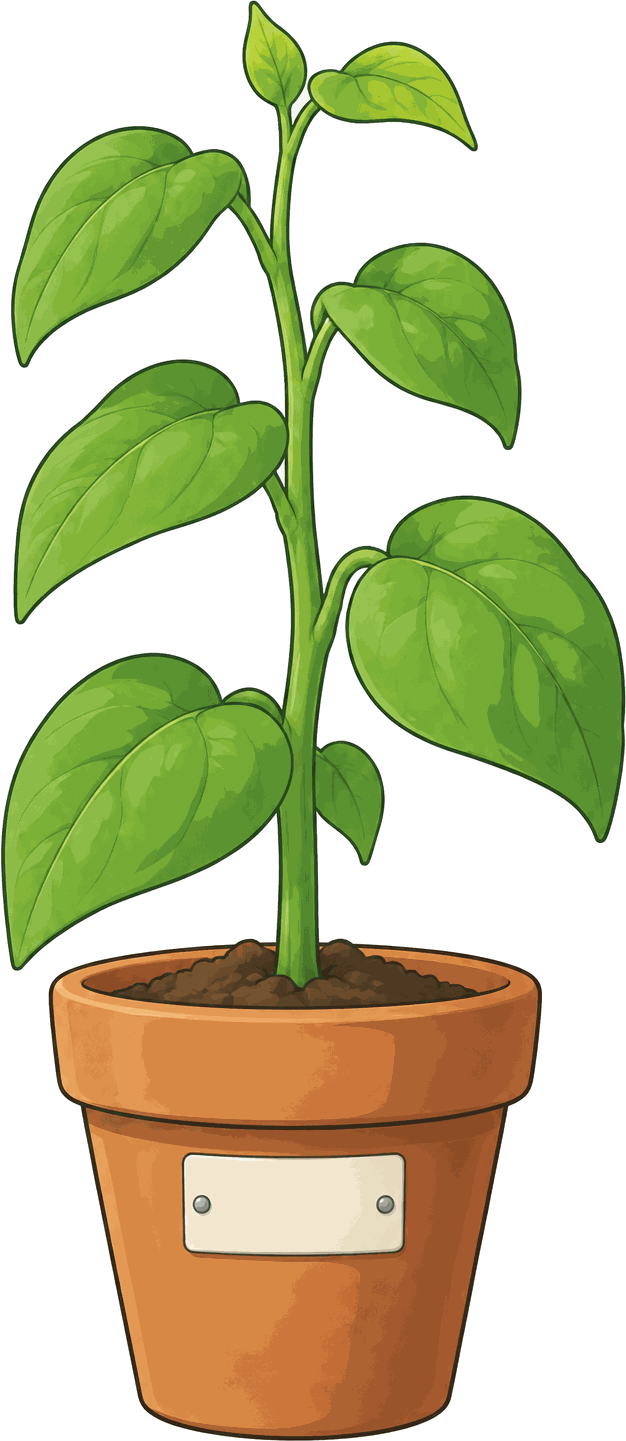
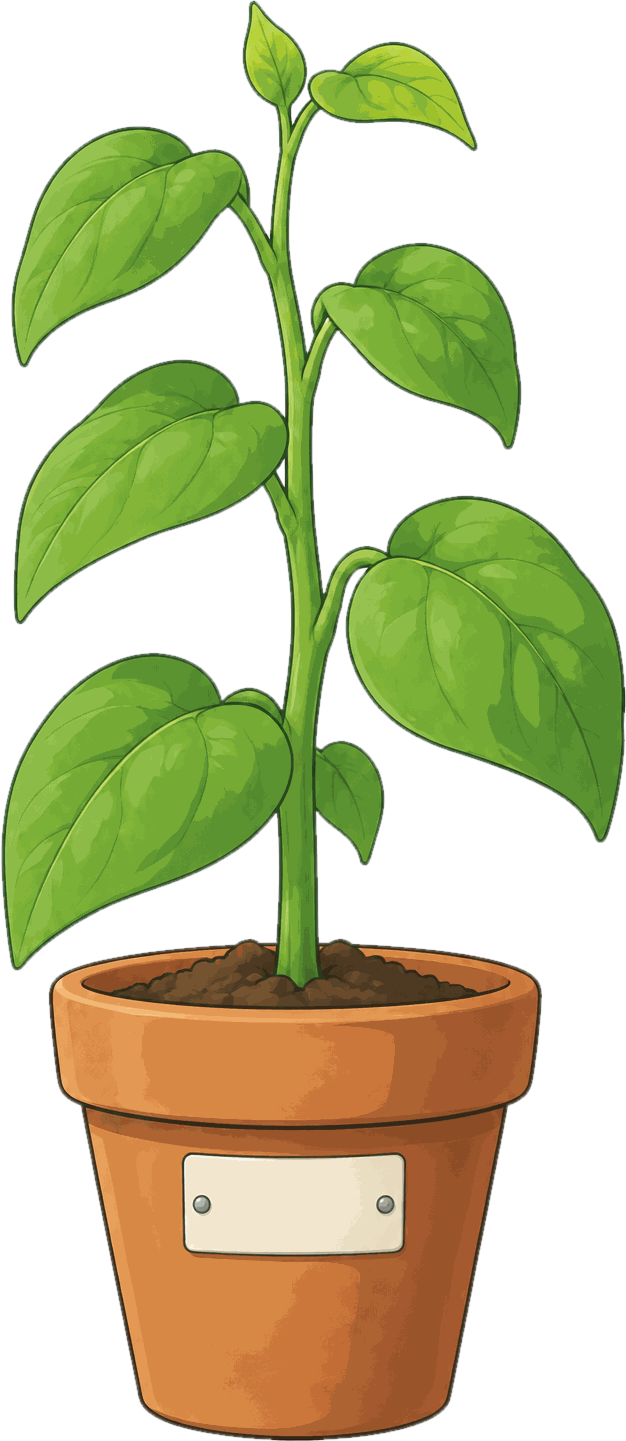
Build 2026-10-24b: the owner's third recording built in (MOTH-69 to MOTH-74)
The inventory's second column fell off the right edge of a 2.2:1 screen: the side layout's stage box stayed 100 units wide while its grid is 122.8. One CSS line in the engine fixes it, and the audit now checks that the scene, the caption and the strip end inside the window at every size (checklist 36b). Also: the white left inside the bag's handle, the tallest plant and the key's hole cleared by region (playbook 2); the pushed rubbish stays on the bin's floor; the half notes are drawn torn scraps with no words, in the bin, the hat and the strip; the whiteboard reads from the wall with no zoom; the letter's type is larger; the bin's hovering lid is gone. Playbook log 67; the level file's learning loop and sample table.

Claude-Session: https://claude.ai/code/session_01JbxsygNAcX6rczmSyPxfDn

diff --git a/next/landscape/stages/evalroom.js b/next/landscape/stages/evalroom.js
@@ -61,7 +61,6 @@ const LAYERS = {
   c3:[
     {src:'../art/eval/c5h/layer-door.png', group:'door', l:CUT.door.l, t:CUT.door.t, w:CUT.door.w, h:CUT.door.h, gone:() => S.locked}, /* the leaf, lifted from the wall; at the ending the stage swings it open on its hinge (MOTH-66) */
     {src:'../art/eval/c5h/layer-coat.png', group:'coat', l:GEO2.coat.l, t:GEO2.coat.t, w:GEO2.coat.w, h:GEO2.coat.h},
-    {src:'../art/eval/c5h/layer-lid.png', group:'lid', l:GEO2.lid.l, t:GEO2.lid.t, w:GEO2.lid.w, h:GEO2.lid.h, shadow:.4},
     {src:'../art/eval/c5h/layer-lost.png', group:'lost', l:CUT.lost.l, t:CUT.lost.t, w:CUT.lost.w, h:CUT.lost.h}, /* the shoe and hat, behind the box's front */
     {src:'../art/eval/c5h/layer-boxfront.png', l:CUT.boxfront.l, t:CUT.boxfront.t, w:CUT.boxfront.w, h:CUT.boxfront.h},
     {src:'../art/eval/c5h/item-skey.png', group:'fkey', l:61.3, t:78.6, w:4.4, h:4.45, shadow:.5, showWhen:() => S.keyDown && !taken('skey')}], /* stand-in: the small key where it landed */
@@ -85,17 +84,20 @@ const LAYERS = {
     {src:'../art/eval/c5h/layer-backpack.png', group:'backpack', l:GEO.backpack.l, t:GEO.backpack.t, w:GEO.backpack.w, h:GEO.backpack.h, shadow:.8}]
 };
 /* ---------- stand-in icons (the first playable: pictures come at Gate D) ---------- */
+const TORN_L = '<svg viewBox="0 0 60 44" style="width:100%;display:block;filter:drop-shadow(1px 2px 2px rgba(0,0,0,.35))"><path d="M3 4h44l-4 6 5 7-4 6 5 7-3 6 4 5-3 3H3z" fill="#fbf4e2" stroke="#8a7a5a" stroke-width="1.2"/><path d="M8 12h28M8 19h30M8 26h26M8 33h20" stroke="#8a93b8" stroke-width="1" opacity=".6"/></svg>';
+const TORN_R = '<svg viewBox="0 0 60 44" style="width:100%;display:block;filter:drop-shadow(1px 2px 2px rgba(0,0,0,.35))"><path d="M57 4H13l4 6-5 7 4 6-5 7 3 6-4 5 3 3h44z" fill="#fbf4e2" stroke="#8a7a5a" stroke-width="1.2"/><path d="M22 12h28M20 19h30M24 26h26M28 33h20" stroke="#8a93b8" stroke-width="1" opacity=".6"/></svg>';
+const torn = (id, side, [l, t, w], rot = -8, label) => `<button id="${id}" aria-label="${label}" style="position:absolute;left:${l}%;top:${t}%;width:${w}%;transform:rotate(${rot}deg);background:transparent;border:0;padding:0;cursor:pointer">${side === 'L' ? TORN_L : TORN_R}</button>`;
 const gicon = (t, bg) => `<span style="display:grid;place-items:center;width:80%;height:80%;margin:10%;background:${bg || '#8a8a94'};border:2px solid #2a2a33;border-radius:12%;color:#fff;font-weight:700;font-size:calc(var(--u)*1.7);text-align:center;line-height:1.05">${t}</span>`;
 const NOTES = {
-  ev_env:{hand:true, html:'<span class="head">For Mary</span><span class="big">Last day! I’ve gone to the hall.</span><span>Will you lock up 5H for me, Mary? The classroom key is in my desk drawer. Its code is the beans’ heights, read in the order I asked you to water them.</span><span class="sign">— Mr H.</span>'},
+  ev_env:{hand:true, html:'<span class="head" style="font-size:1.25em">For Mary</span><span class="big">Last day! I’ve gone to the hall.</span><span style="font-size:1.18em;line-height:1.35">Will you lock up 5H for me, Mary? The classroom key is in my desk drawer. Its code is the beans’ heights, read in the order I asked you to water them.</span><span class="sign" style="font-size:1.15em">— Mr H.</span>'},
   wnote:{hand:true, html:`<div style="position:relative;padding:calc(var(--u)*1.5) calc(var(--u)*2)"><svg viewBox="0 0 320 120" preserveAspectRatio="none" style="position:absolute;inset:0;width:100%;height:100%" aria-hidden="true"><path d="M0 0H154l-6 14 8 12-7 13 9 11-8 14 7 12-6 14 8 12-5 18H0z" fill="#f6ecd3"/><path d="M160 0H320v120H152l5-18-8-12 6-14-7-12 8-14-9-11 7-13-8-12z" fill="#fbf4e2"/><path d="M154 0l-6 14 8 12-7 13 9 11-8 14 7 12-6 14 8 12-5 18" fill="none" stroke="#c9b98f" stroke-width="1.2" stroke-dasharray="3 2"/><rect x="128" y="34" width="58" height="22" rx="2" transform="rotate(-8 157 45)" fill="rgba(255,236,160,.55)" stroke="rgba(190,170,90,.6)"/><rect x="132" y="78" width="54" height="20" rx="2" transform="rotate(6 159 88)" fill="rgba(255,236,160,.55)" stroke="rgba(190,170,90,.6)"/></svg><span class="head" style="position:relative;display:block">A torn note, taped together</span><span class="big" style="position:relative;display:block">Beans: water one pot per lesson,</span><span style="position:relative;display:block">in today’s lesson order.</span><span class="sign" style="position:relative;display:block">— H.</span></div>`}
 };
 const ITEMS = {
   ev_env:{name:'note from Mr Hollis', note:'ev_env', icon:'<img src="../art/classroom/item-envelope.png" alt="">', spent:() => S.deskOpen},
   skey:{name:'small key', icon:'<img src="../art/eval/c5h/item-skey.png" alt="">'},
   ruler:{name:'ruler', icon:gicon('RULER', '#d9a622')},
-  half1:{name:'left half of a note', icon:gicon('½ note', '#c8bfa8')},
-  half2:{name:'right half of a note', icon:gicon('note ½', '#c8bfa8')},
+  half1:{name:'left half of a note', icon:'<span style="display:block;width:78%;margin:11%">' + TORN_L + '</span>'},
+  half2:{name:'right half of a note', icon:'<span style="display:block;width:78%;margin:11%">' + TORN_R + '</span>'},
   wnote:{name:'watering note', note:'wnote', icon:gicon('NOTE', '#c8bfa8'), spent:() => S.deskOpen},
   dkey:{name:'classroom key', icon:gicon('5H KEY', '#a8844a')}
 };
@@ -191,11 +193,11 @@ const paper = (id, text, [l, t, w], rot = -8) => `<button id="${id}" style="posi
    on top of each other; a tap shoves one aside (it slides to the rim and stays there), and the half note is under the last two.
    Moving the rubbish by dragging is backlog 27; a tap-to-shove stands in. */
 const RUBBISH = [ /* id, label, resting spot (l, t, w, rotation) on the bin's floor, where it goes when shoved (up the inside wall), and the picture (Gate E samples, 24 Oct 2026) */
-  {id:'r1', label:'a crumpled page', at:[33, 30, 23, -12], to:[7, 12, 20, 28], src:'layer-rub-page.png'},
-  {id:'r2', label:'a juice carton', at:[52, 24, 14, 18], to:[78, 10, 13, 40], src:'layer-rub-carton.png'},
-  {id:'r3', label:'a crust', at:[28, 50, 19, 6], to:[5, 60, 17, -24], src:'layer-rub-crust.png'},
-  {id:'r4', label:'a ball of paper', at:[48, 44, 17, 0], to:[78, 56, 16, -30], src:'layer-rub-ball.png'},
-  {id:'r5', label:'an apple core', at:[40, 36, 16, -20], to:[8, 36, 14, 26], src:'layer-rub-core.png'}
+  {id:'r1', label:'a crumpled page', at:[33, 30, 23, -12], to:[27, 26, 20, 28], src:'layer-rub-page.png'},
+  {id:'r2', label:'a juice carton', at:[52, 24, 14, 18], to:[62, 22, 13, 40], src:'layer-rub-carton.png'},
+  {id:'r3', label:'a crust', at:[28, 50, 19, 6], to:[26, 56, 17, -24], src:'layer-rub-crust.png'},
+  {id:'r4', label:'a ball of paper', at:[48, 44, 17, 0], to:[61, 52, 16, -30], src:'layer-rub-ball.png'},
+  {id:'r5', label:'an apple core', at:[40, 36, 16, -20], to:[30, 40, 14, 26], src:'layer-rub-core.png'}
 ];
 const UNDER = ['r4', 'r5']; /* the half note is under these two */
 function openBin(){
@@ -204,13 +206,13 @@ function openBin(){
   const pieces = RUBBISH.map(r => { const m = moved.includes(r.id), [l, t, w, rot] = m ? r.to : r.at;
     return `<button class="rub" data-r="${r.id}" aria-label="${r.label}${m ? ', pushed aside' : ''}" style="position:absolute;left:${l}%;top:${t}%;width:${w}%;aspect-ratio:1;transform:rotate(${rot}deg);background:transparent;border:0;padding:0;cursor:pointer;transition:left .5s cubic-bezier(.3,.9,.4,1),top .5s cubic-bezier(.3,.9,.4,1),transform .5s;filter:drop-shadow(2px 4px 3px rgba(0,0,0,.45))"><img src="../art/eval/c5h/${r.src}?v=${BUILD}" alt="" style="width:100%;display:block;pointer-events:none"></button>`; }).join('');
   openCloseup(`<div class="card shelf"><div class="shelfpic" style="background-image:url(../art/eval/c5h/closeup-bin.jpg?v=${BUILD})"><p class="otitle">Into the bin</p>
-    ${noteShows ? paper('takeHalf1', '½ note', [42, 44, 14], -14) : (!gone ? `<div id="binNote" style="position:absolute;left:42%;top:44%;width:14%;aspect-ratio:1.6;transform:rotate(-14deg);background:#fbf4e2;border:1px solid #6a5a44;opacity:${UNDER.some(id => moved.includes(id)) ? .9 : .35}"></div>` : '')}
+    ${noteShows ? torn('takeHalf1', 'L', [42, 44, 14], -14, 'Half a torn note') : (!gone ? `<div id="binNote" style="position:absolute;left:42%;top:44%;width:14%;aspect-ratio:1.6;transform:rotate(-14deg);background:#fbf4e2;border:1px solid #6a5a44;opacity:${UNDER.some(id => moved.includes(id)) ? .9 : .35}"></div>` : '')}
     ${pieces}</div><p class="ofb" id="binFb">${gone ? 'Paper, a crust, a carton and an apple core. Nothing else now.' : noteShows ? 'There! Half a note, torn down the middle, in Mr Hollis’s writing.' : 'Looking down into the bin. Paper, a crust, a carton… Push things aside to see what is underneath.'}</p></div>`);
   document.querySelectorAll('#closeup .rub').forEach(b => b.onclick = e => { e.stopPropagation(); const id = b.dataset.r, r = RUBBISH.find(x => x.id === id); if (!S.binMoved) S.binMoved = [];
     const m = S.binMoved.includes(id); S.binMoved = m ? S.binMoved.filter(x => x !== id) : [...S.binMoved, id]; save(); sfx('paper');
     const [l, t, w, rot] = m ? r.at : r.to; b.style.left = l + '%'; b.style.top = t + '%'; b.style.transform = `rotate(${rot}deg)`;
     const shows = !gone && UNDER.every(x => S.binMoved.includes(x)); const n = $('binNote'); if (n) n.style.opacity = UNDER.some(x => S.binMoved.includes(x)) ? .9 : .35;
-    if (shows && !$('takeHalf1')){ const n = $('binNote'); if (n) n.remove(); const pic = document.querySelector('#closeup .shelfpic'); pic.insertAdjacentHTML('beforeend', paper('takeHalf1', '½ note', [42, 44, 14], -14)); wireHalf1(); $('binFb').textContent = 'There! Half a note, torn down the middle, in Mr Hollis’s writing.'; }
+    if (shows && !$('takeHalf1')){ const n = $('binNote'); if (n) n.remove(); const pic = document.querySelector('#closeup .shelfpic'); pic.insertAdjacentHTML('beforeend', torn('takeHalf1', 'L', [42, 44, 14], -14, 'Half a torn note')); wireHalf1(); $('binFb').textContent = 'There! Half a note, torn down the middle, in Mr Hollis’s writing.'; }
     else $('binFb').textContent = m ? 'Back it goes.' : UNDER.some(x => S.binMoved.includes(x)) ? 'Pushed aside. Something pale underneath…' : 'Pushed aside.'; });
   wireHalf1();
 }
@@ -225,7 +227,7 @@ function openBox(){ /* the lost property box, close up, from the wall; the hat i
 function openHat(){
   const gone = S.got.includes('half2') || S.got.includes('wnote');
   openCloseup(`<div class="card shelf"><div class="shelfpic" style="background-image:url(../art/eval/c5h/closeup-hat.jpg?v=${BUILD})"><p class="otitle">Inside the hat</p>
-    ${S.popped && !gone ? paper('takeHalf2', 'note ½', [58, 50, 11], 28) : ''}</div><p class="ofb">${gone ? 'The inside of the cap: a sweatband and a name tape, worn blank.' : S.popped ? 'Tucked under the band: a torn corner of paper.' : 'The inside of the cap. The band is tight all the way round.'}</p></div>`);
+    ${S.popped && !gone ? torn('takeHalf2', 'R', [57, 49, 11], 28, 'A torn corner of paper') : ''}</div><p class="ofb">${gone ? 'The inside of the cap: a sweatband and a name tape, worn blank.' : S.popped ? 'Tucked under the band: a torn corner of paper.' : 'The inside of the cap. The band is tight all the way round.'}</p></div>`);
   const b = $('takeHalf2'); if (b) b.onclick = e => { e.stopPropagation(); S.got.push('half2'); save(); sfx('pickup'); closeCloseup(); render(); say('The other half of the note, tucked in the hat’s band. Torn, taped once already, and torn again. It goes in the strip below.'); };
 }
 function openBoard(again){
@@ -332,7 +334,7 @@ function act(id){
       if (!S.deskOpen){ openDeskLock(); return; }
       if (!S.deskOut){ toggleDrawer('desk', taken('dkey') ? 'The drawer slides open. Paper clips and a whistle.' : 'The drawer slides open. Something glints inside.'); return; }
       openInsideDesk(); return;
-    case 'ev_board': openBoard(); return;
+    case 'ev_board': { const first = !S.seen.day; if (first){ S.seen.day = Date.now(); save(); } say('The whiteboard, wiped clean for the holidays. Only today’s date is left: ' + DATE + '.' + (first ? copyClue('board') : '')); return; } /* no zoom: the date is big enough on the wall (owner, 24 Oct 2026) */
     case 'ev_timetable': openTimetable(); return;
     case 'ev_beans': openPots(); return;
     case 'ev_door':

diff --git a/next/landscape/index.html b/next/landscape/index.html
@@ -41,7 +41,7 @@ button{font:inherit;color:inherit;cursor:pointer}
 /* a wide screen (the owner's phone; backlog 24, 21 Oct 2026): the scene takes the full height, the ten slots stand beside it in two
    columns of five, and the spoken line floats over the foot of the picture only while it is showing (never over a close-up or card).
    fit() chooses this layout only when it gives a clearly bigger scene; a tablet keeps the strip under the scene. */
-.stage.side{position:relative;display:grid;grid-template-columns:calc(var(--u)*100) calc(var(--u)*21.6);grid-template-rows:calc(var(--u)*56.25);gap:0 calc(var(--u)*1.2);align-items:stretch}
+.stage.side{position:relative;width:calc(var(--u)*122.8);display:grid;grid-template-columns:calc(var(--u)*100) calc(var(--u)*21.6);grid-template-rows:calc(var(--u)*56.25);gap:0 calc(var(--u)*1.2);align-items:stretch}
 .stage.side .scene{grid-column:1;grid-row:1}
 .stage.side .inv{grid-column:2;grid-row:1;margin:0;padding:0;height:100%;grid-template-columns:repeat(2,minmax(0,1fr));grid-template-rows:repeat(5,minmax(0,1fr));gap:calc(var(--u)*1.2)}
 .stage.side .slot{aspect-ratio:auto;height:100%}
@@ -644,7 +644,7 @@ button{font:inherit;color:inherit;cursor:pointer}
 
 <script>
 'use strict';
-const BUILD = '2026-10-24a';
+const BUILD = '2026-10-24b';
 const $ = id => document.getElementById(id);
 
 /* ---------- sizing: the scene fills the screen in landscape, the inventory strip under it, or beside it on a wide screen (backlog 24) ---------- */
@@ -1764,15 +1764,15 @@ function boot(){
   playSplash().then(showTitle);
 }
 </script>
-<script src="stages/school.js?v=2026-10-24a"></script>
-<script src="stages/packing.js?v=2026-10-24a"></script>
-<script src="stages/school3.js?v=2026-10-24a"></script>
-<script src="stages/evalroom.js?v=2026-10-24a"></script>
-<script src="stages/eschool.js?v=2026-10-24a"></script>
-<script src="stages/zschool.js?v=2026-10-24a"></script>
-<script src="stages/flight.js?v=2026-10-24a"></script>
-<script src="stages/nana.js?v=2026-10-24a"></script>
-<script src="stages/park.js?v=2026-10-24a"></script>
+<script src="stages/school.js?v=2026-10-24b"></script>
+<script src="stages/packing.js?v=2026-10-24b"></script>
+<script src="stages/school3.js?v=2026-10-24b"></script>
+<script src="stages/evalroom.js?v=2026-10-24b"></script>
+<script src="stages/eschool.js?v=2026-10-24b"></script>
+<script src="stages/zschool.js?v=2026-10-24b"></script>
+<script src="stages/flight.js?v=2026-10-24b"></script>
+<script src="stages/nana.js?v=2026-10-24b"></script>
+<script src="stages/park.js?v=2026-10-24b"></script>
 <script>boot();</script>
 <script>if ('serviceWorker' in navigator && location.protocol === 'https:') navigator.serviceWorker.register('../../sw.js').catch(() => {});</script>
 </body>

diff --git a/tools/play-ev.js b/tools/play-ev.js
@@ -49,7 +49,7 @@ const { chromium } = require('playwright');
   await p.evaluate(() => document.querySelector('#closeup .cuhot[data-cu="ev_hat"]').click()); await p.waitForTimeout(600); console.log('hat close-up, corner there?', await p.locator('#takeHalf2').count()); await shot('08c-hat'); await p.click('#takeHalf2'); await p.waitForTimeout(500); console.log('halves:', JSON.stringify(await st()));
   await hold('left half of a note'); await p.evaluate(() => document.querySelector('.slot[aria-label="right half of a note"]').click()); await p.waitForTimeout(900); await noOverflow('watering note'); await shot('09-watering-note'); console.log('joined:', JSON.stringify(await st())); await back();
   // the clues: board, timetable
-  await turnTo('c1'); await tap('ev_board', 800); await noOverflow('board'); await shot('10-board'); await back();
+  await turnTo('c1'); await tap('ev_board', 800); console.log('board: no close-up?', await p.evaluate(() => document.getElementById('closeup').hidden), '| day seen?', await p.evaluate(() => !!S.seen.day)); await shot('10-board');
   await turnTo('c4'); await tap('ev_timetable', 800); await noOverflow('timetable'); await shot('11-timetable'); await back(); console.log('clues:', JSON.stringify(await st()));
   await nbCheck('with clues'); await p.evaluate(() => openNotebook()); await p.waitForTimeout(300); await shot('12-notebook');
   console.log('notebook rows:', JSON.stringify(await p.evaluate(() => [...document.querySelectorAll('.nbrow')].map(r => r.textContent))));

diff --git a/tools/audit.js b/tools/audit.js
@@ -36,6 +36,8 @@ const voiced = new Set(JSON.parse(fs.readFileSync(path.join(__dirname, '../next/
       if (!(await p.evaluate(() => document.getElementById('comic').hidden))) await p.click('#cskip'); await p.waitForTimeout(300);
       if (!(await p.evaluate(() => document.getElementById('stagecard').hidden))) await p.click('#cardGo'); await p.waitForTimeout(300);
       const scroll = await p.evaluate(() => document.documentElement.scrollHeight > innerHeight + 1 || document.documentElement.scrollWidth > innerWidth + 1); if (scroll) say(stage, 'G37', `page scrolls at ${name}`);
+      /* the strip, the scene and the caption all inside the window (the body hides overflow, so a scroll test misses it): the inventory's second column was off the owner's tablet, 24 Oct 2026 */
+      const off = await p.evaluate(() => ['inv', 'scene', 'msg'].map(id => { const r = document.getElementById(id).getBoundingClientRect(); return [id, Math.round(r.left), Math.round(r.right), Math.round(r.bottom)]; }).filter(([id, l, r, b]) => l < -1 || r > innerWidth + 1 || b > innerHeight + 1)); if (off.length) say(stage, 'G37', `off the screen at ${name}: ${off.map(o => o.join(' ')).join('; ')}`);
       const views = await p.evaluate(() => Object.entries(ROOMS).flatMap(([r, R]) => R.views.map((v, i) => [r, i, v])));
       for (const [room, i, v] of views){
         await p.evaluate(([r, i]) => { S.room = r; S.view = i; save(); render(); say(''); }, [room, i]); await p.waitForTimeout(name === 'tablet' ? 900 : 250);

diff --git a/next/PLAYBOOK.md b/next/PLAYBOOK.md
@@ -22,7 +22,7 @@ The working rules for every room in the landscape game, distilled from the owner
 - Consistency: generate one wall alone, then give the others a crop of it (objects cut off) as a style reference, with "copy only its style, not its objects".
 - Never mention the arrows or the interface in a prompt (the model draws them). Walls made before 17 Oct 2026 were prompted as a "shallow box with narrow side walls"; new walls are prompted flat and the engine paints the side walls from the neighbouring views (4z). Never draw boxes, panels or placeholder shapes.
 - Anything that will move, be picked up, or change state is **not drawn on the wall**. Describe its place as empty ("the purple locker has no door", "the end of the cabinet is empty") and generate the thing separately as a cut-out. This avoids the edit-and-drift cycle (editing a finished wall shifts everything slightly and every position must be re-measured).
-- Cut-outs: 1:1 or 3:4, 1K, "alone on a pure flat white background, same style as the attached crop, no surface, no shadow, no frame, no text". Flood-fill the white away from the edges (so white inside the object survives), crop to content, quantise to 256 colours. Give the model a crop of the object from the wall when one exists.
+- Cut-outs: 1:1 or 3:4, 1K, "alone on a pure flat white background, same style as the attached crop, no surface, no shadow, no frame, no text". Flood-fill the white away from the edges (so white inside the object survives), then clear any enclosed near-white region that is not part of the thing (a handle's loop, a key's hole, a gap between leaves: the owner's recording, 24 Oct 2026, MOTH-70), crop to content, quantise to 256 colours. Give the model a crop of the object from the wall when one exists.
 - Inventory icons are made the same way (on white, keyed out), never small vector drawings.
 - Text in generated art is unreliable: keep lettering to short labels (SUPPLIES, 5H, LOST PROPERTY). Anything the puzzle depends on (the timetable grid) is drawn by the game over the picture so it exactly matches its close-up.
 - Save walls at 1920×1080 JPEG quality 88; keep the 2K PNG originals out of the repo.
@@ -640,3 +640,4 @@ Items 1, 3, 4, 6 and 7 are one build, about a day, the "tester round 1" build; 2
 64. "It's ok but I think it needs new visuals… Inside the bin taken from the top perhaps with a mini puzzle to move the trash around to find the note. A close up of the inside of the hat. Also the drawers need open and shut mechanics" (owner, 22 Oct 2026, on build 2026-10-22c). Logged as MOTH-52, MOTH-53, MOTH-54. → build 2026-10-22d: the bin looked into from the top with five bits of rubbish to push aside and the half note under the last two; the hat opened from the box close-up with the corner in its band; both drawers open and shut on a tap, in the room and close up, with the ruler and the key inside only while they are out. All three are code-drawn stand-ins; the pictures go on the Gate D list. Rules in 4ad and checklist 60 and 61; the drag version of the rubbish and the engine's shut movement are backlog 26 and 27.
 65. The owner's playthrough video of build 2026-10-22d (22 Oct 2026, 4 min 6 s, from the tablet, 248 frames read at one every two seconds). Solved without the notebook: the timetable read three times (the last for ten seconds, finger on the Thursday row) and the measured pots held open for twelve seconds while the code was worked out, which is the puzzle doing its job; the bin's push-aside found in six seconds, the hat in four; the key used inside the cabinet close-up at 2:16 (MOTH-51 holds); both drawers opened and shut several times for the pleasure of it. One fault: the small key back on the floor after it had opened the cabinet, picked up a second time during the lock-up (MOTH-55). Cause: the floor key hid on "is it in the strip", and a used item leaves the strip. → build 2026-10-22e: a taken flag for the small key and the classroom key; checklist 41b. The recording carries no sound at all, so whether the taps sounded on the tablet is unknown; worth checking on the next play.
 66. The owner's second recording, with his voice (22 Oct 2026, build 2026-10-22d, 6 min 14 s; the sound track transcribed through OpenRouter for 4 cents and each remark pinned to its frame). Thirteen points, logged as MOTH-56 to MOTH-68: the timetable's icons off the grid ("probably a line missing… only four rows"); the ball and the brush on no day; the bag, the bin lid and the box's pop ("not thrilled with the bag animation… I'm not a big fan of this animation… it's kind of weird that it animates and it zooms in"); the keyhole in the close-up but not on the wall; the keyhole itself not taking the key ("if I click on the key and then click on the hole, it should work, but it doesn't"); the whole desk opening the dials ("the hitbox is too big"); an open drawer that should zoom to itself ("this is a bug… I actually have to zoom in to the whole filing cabinet"); the bin's flash when the note appears; the key that should tumble out of the pocket; the joined note that should look taped; the key hard to see in the drawer ("some kind of top-down view"); the door's fold and the drag's trail line ("not good at all"); the same line twice on a close-up and in the caption; the cupboard's doors narrower than the cupboard and a line about glue sticks over bare shelves. Praise kept too: "I do like the turning of the clock, that's really cool"; "this I like, the sort of looking inside the bin". The recording has the music but no tap sounds, which may be the recorder or the game: to check on the tablet. → build 2026-10-22f: all but the three that are pictures (the top-down drawer, the cupboard doors re-cut, the finished taped note) fixed, those three on the Gate D list; rules in 4ad and checklist 59 to 62.
+67. The owner's third recording, with his voice (24 Oct 2026, build 2026-10-24a with the Gate E samples, 3 min 59 s; transcribed for 3 cents). The samples passed by ear: "I like how this thing works here in terms of the items being moved"; the clock "works fantastically well". Ten points, logged as MOTH-69 to MOTH-74: the inventory's second column off his tablet (a 2.2:1 screen: the side layout's stage box stayed 100 units wide while its grid is 122.8, so the strip hung off the right edge; "where is it in my inventory?… this is a little bit of a game flaw"), fixed in the engine's one CSS line and checked by the audit from now on (checklist 36b); white left inside the bag's handle, the tallest plant and the key's hole (the edge flood cannot reach an enclosed gap: cleared by region); the pushed rubbish climbing the bin's walls (now the floor's corners); the stand-in halves labelled "½ note" ("why is it written?": torn scraps now, no words); the whiteboard's needless zoom and the letter's small type; the bin's hovering lid (removed; the wall's bin has none) and the keyhole's shape against the new key. The tap sounds were audible this time: the earlier silent recording was the recorder. → build 2026-10-24b.

diff --git a/levels/LEVEL-evalroom.md b/levels/LEVEL-evalroom.md
@@ -3,7 +3,7 @@
 *Outline only, written in claude.ai on 22 Oct 2026 from a discussion with the owner, recorded here the same day from `EVALROOM-HANDOVER.md` with the owner's two changes made in chat after the review (the lock-up duty premise and the falling key) and the review's findings listed under "Review against the repo". Nothing here is built yet. Do not build, generate art or change the engine until the owner signs Gate B, and then follow the gates as for any level. The stage stays `?stage=evalroom` (`next/landscape/stages/evalroom.js`); its current "one room, no puzzle" content is replaced by this design once it reaches the greybox.*
 
 Status: `brief` | `outline` | `greybox` | `assets listed` | `samples` | `batch` | `integrating` | `released`
-Current status: sample pack made and placed (build 2026-10-24a); Gate E waits on the owner's play
+Current status: sample pack placed and played by the owner (build 2026-10-24b carries his notes); Gate E waits on his word
 Build id of the latest play link: 2026-10-22f (the first playable, with everything from the owner's three plays built in: MOTH-49 to 68)
 Latest play link: `?stage=evalroom`
 
@@ -245,9 +245,9 @@ Made 24 Oct 2026 on the GitHub runner (`evals/images/runs/evalroom-samples.json`
 | Sample | What it is | Why this one | Result |
 |---|---|---|---|
 | Wall | none new | the owner kept the walls at Gate D | — |
-| Close-up | the bin from above (`closeup-bin.jpg`) with its five rubbish cut-outs (`layer-rub-*.png`) | the hardest: a new angle, a picture other pictures must sit on, and the room's one search puzzle | Claude's sheet: every hard rule passes (nothing written, nothing extra, the bin empty as asked); the carton stands rather than lying squashed, fine in a bin. Owner: |
-| Close-up | the inside of the hat (`closeup-hat.jpg`) | the second new angle | passes; peak downwards as asked, band clear. Owner: |
-| Cut-out | the small key (`item-skey.png`): the strip icon, the floor, the tumble and the drag's tab | the one picture seen four ways | passes; two notches as asked. Owner: |
+| Close-up | the bin from above (`closeup-bin.jpg`) with its five rubbish cut-outs (`layer-rub-*.png`) | the hardest: a new angle, a picture other pictures must sit on, and the room's one search puzzle | Claude's sheet: every hard rule passes (nothing written, nothing extra, the bin empty as asked); the carton stands rather than lying squashed, fine in a bin. Owner: "I like how this thing works"; the pushed pieces to stay on the floor (done). |
+| Close-up | the inside of the hat (`closeup-hat.jpg`) | the second new angle | passes; peak downwards as asked, band clear. Owner: no remark on the picture; the corner's stand-in to look like paper (done). |
+| Cut-out | the small key (`item-skey.png`): the strip icon, the floor, the tumble and the drag's tab | the one picture seen four ways | passes; two notches as asked. Owner: "it works well", the hole wanted clearing (done). |
 | Voice ×2–3 | one hint, one story line, one wrong-try | — | not yet recorded: the voice is made at the batch, on the Gemini key |
 | Track | none new (the classroom track) | | — |
 
@@ -319,6 +319,12 @@ Every fault found in this level, where it was found, and what happened to it.
 | Same recording (MOTH-66) | The door folded flat; the key turn left a trail line | The leaf swings on its hinge in perspective; the trail invisible | Engine: the door swing goes with backlog 26 | this file |
 | Same recording (MOTH-68) | The same line on the card and in the caption | One line per screen in this room | Yes, whole game when revisited | Checklist 62 |
 | Same recording (MOTH-67) | The cupboard's doors narrower than the cupboard; its line promised glue sticks over bare shelves | The line now matches; the doors re-cut at Gate D | This room's art | the asset list |
+| Owner's third recording, 24 Oct 2026 (MOTH-69) | The inventory's second column off his tablet's screen, so the key and a half note vanished | The side layout's stage is as wide as scene plus strip (engine CSS); the audit checks every element's edges | Yes, whole game | Checklist 36b; audit G37 |
+| Same recording (MOTH-70) | White inside the bag's handle, between the tallest plant's leaves, in the key's hole | Enclosed near-white regions cleared by component, above the label line | Yes: a keying checks enclosed gaps, not only the edges | Playbook 2 to carry it; this file |
+| Same recording (MOTH-71) | Pushed rubbish climbed the bin's walls | Pushed spots are the floor's corners | This room's | this file |
+| Same recording (MOTH-72) | The stand-in halves said "½ note" | Drawn torn scraps without words, in the bin, the hat and the strip | Yes: a stand-in never names itself; it looks like the thing | Playbook 4ac |
+| Same recording (MOTH-73) | The whiteboard zoomed to show what the wall already shows; the letter's type small | No close-up: the date is said and copied; the letter 18% larger | This room's | this file |
+| Same recording (MOTH-74) | The bin's lid hovered; the keyhole's shape does not match the key | Lid removed; keyhole to be redrawn as a slot at the batch | This room's | this file |
 | Owner's tablet play, 22 Oct 2026 (MOTH-51) | The small key opened the cabinet from the room but not inside the cabinet close-up | A target over the drawer in the close-up routes a held item through the same USES table (`cuTarget`, `wireCu`) | Yes: what takes an item in the room takes it in its close-up | Playbook 4ad; checklist 59; backlog 25 for the engine |
 | Owner's tablet play, 22 Oct 2026 (MOTH-50) | Measuring with the ruler took "a lot of clicking around": the ruler did nothing inside the pot close-up | The pot close-up takes the ruler, and its line says to hold the ruler first | Same rule as above | Checklist 59 |
 | Owner's tablet play, 22 Oct 2026 (MOTH-49) | The half note came out of the bin from the room view, and the corner under the hat was a small wall target | The bin, the box and the desk drawer open close up, made from the wall, and the thing is taken there | Yes: finding is a close-up | Playbook 4ad; checklist 60 |

diff --git a/next/CHECKLIST.md b/next/CHECKLIST.md
@@ -94,6 +94,7 @@ Every fault the owner has had to point out, turned into a check. It is used twic
 ## G. Devices and delivery
 
 36. **Check at the owner's screen shape**: 2000×700 (a phone-shaped tablet with the browser's bar), plus 740×360 and 2200×1300, and once with reduced motion on. A fix is not done until it is seen close up at that shape (log 38).
+36b. **Nothing off the screen, strip included.** The scene, the caption and both inventory columns end inside the window at every shape, including a screen more than twice as wide as tall, where the strip sits beside the scene; the body hides overflow, so this is checked by the elements' edges, not by scrolling (the owner's recording, 24 Oct 2026: the second column off his tablet, MOTH-69; the audit checks it).
 37. No page scroll at any size; the whole game fits; portrait asks to turn.
 38. Every picture preloads; nothing pops in late. A test link that must start clean carries `?fresh`; a player's game is never wiped by a new build (log 9; reworded 17 Oct 2026 for backlog 18). A screen's own pictures and the lines spoken on the way into it are ready before the screen shows (the portraits, a comic's pages and captions, the stage card; log 49); a caption never appears before its picture.
 39. Sound starts on a real tap and works after the first; music never "random noise" (logs 3, 4, 10).
